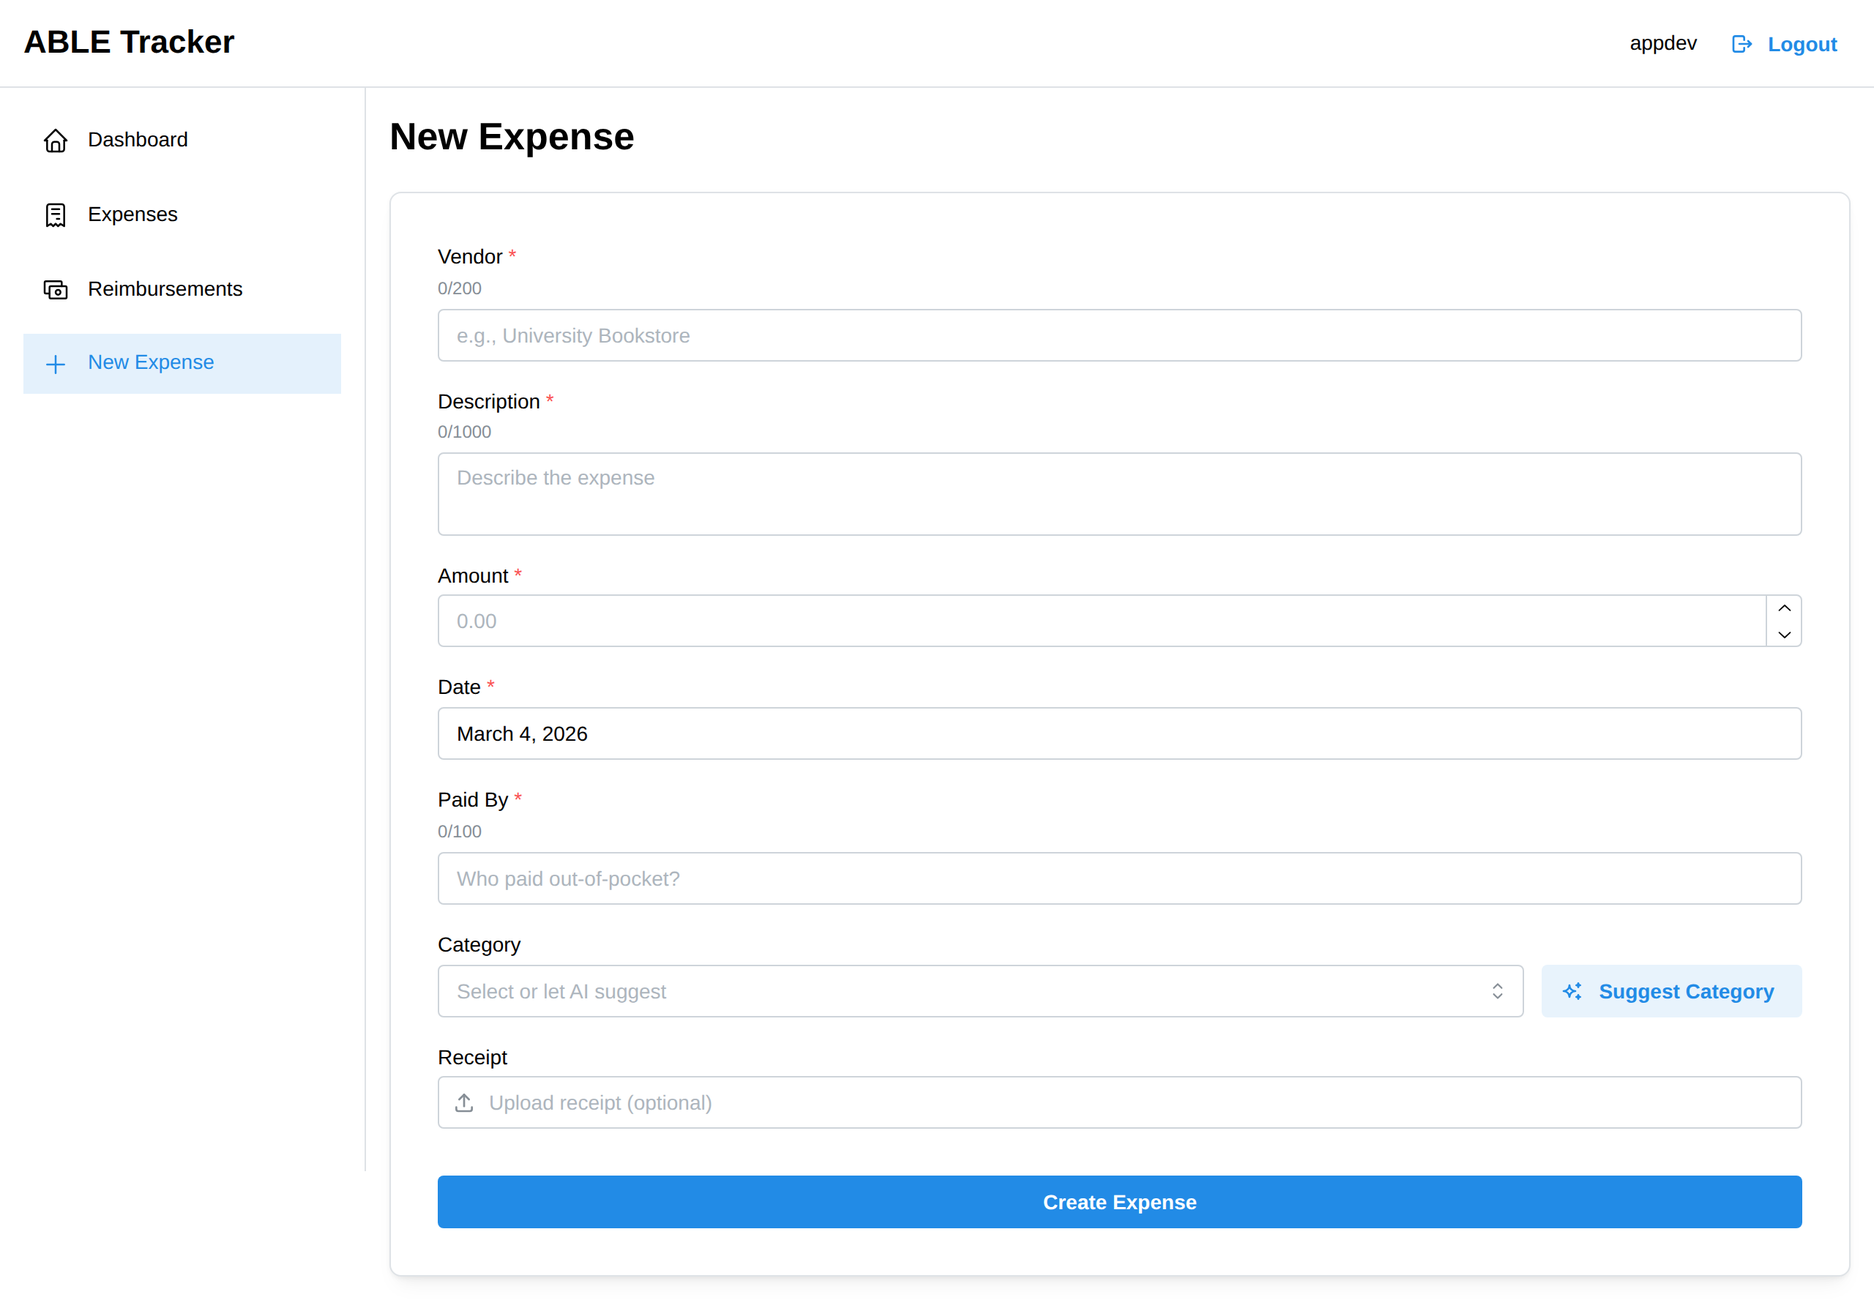
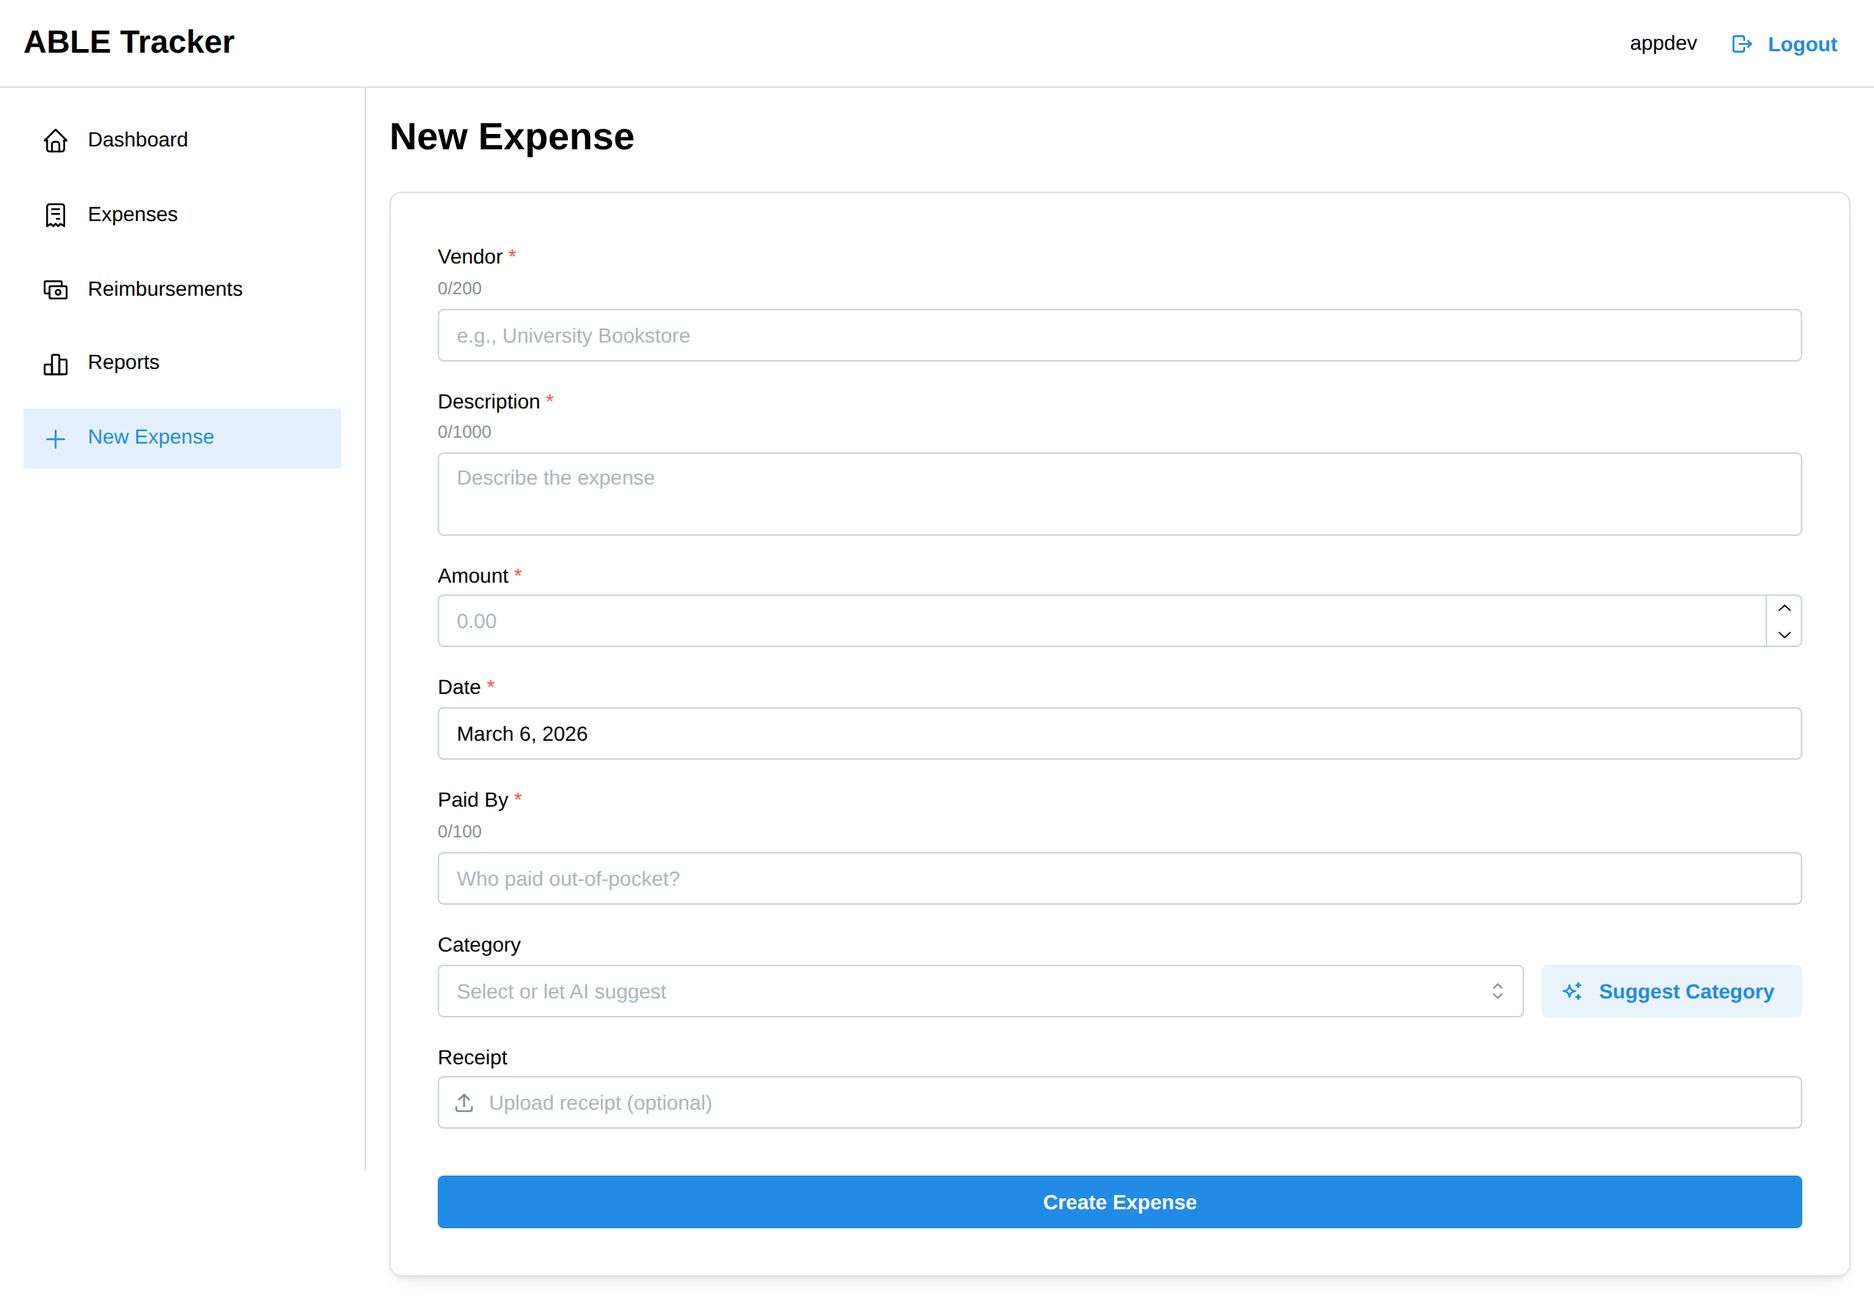
docs: Sprint 5 UAT report, demo script updates, and screenshots
- Update product-demo.md for all Sprint 5 features: Reports page,
  Reimbursement Status filter, Mark as Reimbursed, API throttling,
  upload size limits
- Add new screenshots: 12-reports.png, 13-expense-filter.png
- Refresh all existing screenshots from live environment
- Update capture-screenshots.mjs with Reports and filter captures
- Add Sprint 5 UAT report with full test results and findings

Changed region(s): [[0.0, 0.2477, 0.1875, 0.3716]]

diff --git a/docs/demos/product-demo.md b/docs/demos/product-demo.md
@@ -1,6 +1,6 @@
 # ABLE Tracker -- Product Demo
 
-> Last updated: Sprint 4, 2026-03-04 (post-deployment)
+> Last updated: Sprint 5, 2026-03-06 (post-deployment)
 
 ## What is ABLE Tracker?
 
@@ -126,11 +126,12 @@ The app uses a sidebar navigation layout with a fixed header. On mobile, the sid
 - **Dashboard** (home icon) -- `/`
 - **Expenses** (receipt icon) -- `/expenses`
 - **Reimbursements** (cash icon) -- `/reimbursements`
+- **Reports** (chart icon) -- `/reports`
 - **New Expense** (plus icon) -- `/expenses/new`
 
 **Steps:**
 
-1. From any page, observe the sidebar on the left with four navigation links.
+1. From any page, observe the sidebar on the left with five navigation links.
 2. Click each link to navigate between pages.
 3. On the header, observe your display name and the Logout button.
 4. Click **Logout** to end your session and return to the login page.
@@ -144,7 +145,7 @@ The app uses a sidebar navigation layout with a fixed header. On mobile, the sid
 3. Tap the hamburger to open/close the sidebar as an overlay.
 
 **Verification:**
-- [ ] Four navigation links are visible: Dashboard, Expenses, Reimbursements, New Expense
+- [ ] Five navigation links are visible: Dashboard, Expenses, Reimbursements, Reports, New Expense
 - [ ] Active page is visually highlighted in the sidebar
 - [ ] Clicking a link navigates to the correct page
 - [ ] Display name appears in the header
@@ -281,21 +282,27 @@ The Expense List page shows all recorded expenses in a table format. It includes
 
 **Filters:**
 
-The filter bar at the top of the table provides three filter controls:
+![Expense list with reimbursement filter](screenshots/13-expense-filter.png)
+
+The filter bar at the top of the table provides four filter controls:
 
 1. **Category** -- Dropdown to filter by any of the 11 ABLE categories (or "All categories")
-2. **From date** -- Date picker for the start of a date range
-3. **To date** -- Date picker for the end of a date range
-4. **Clear filters** -- Button to reset all filters
+2. **Reimbursement Status** -- Dropdown to filter by "Unreimbursed", "Reimbursed", or "All" (default)
+3. **From date** -- Date picker for the start of a date range
+4. **To date** -- Date picker for the end of a date range
+5. **Clear filters** -- Button to reset all filters
+
+The Reimbursement Status filter sends the `reimbursed` query parameter to the backend API, so filtering happens server-side for accurate results.
 
 **Steps:**
 
 1. Navigate to **Expenses** from the sidebar.
 2. If expenses exist, they appear in a striped, hover-highlighted table.
 3. Use the **Category** dropdown to filter by a specific ABLE category.
-4. Use the **From date** and **To date** pickers to filter by date range.
-5. Click **"Clear filters"** to reset all filters.
-6. Click **"Add Expense"** (top right) to create a new expense.
+4. Use the **Reimbursement Status** dropdown to show only unreimbursed or reimbursed expenses.
+5. Use the **From date** and **To date** pickers to filter by date range.
+6. Click **"Clear filters"** to reset all filters.
+7. Click **"Add Expense"** (top right) to create a new expense.
 
 **Empty state:**
 
@@ -309,8 +316,10 @@ If no expenses have been recorded yet, the page shows a friendly empty state wit
 - [ ] Date is formatted as "MMM D, YYYY"
 - [ ] Reimbursed column shows colored badges (green for Yes, gray for No)
 - [ ] Category filter dropdown includes all 11 ABLE categories
+- [ ] Reimbursement Status filter shows "Unreimbursed", "Reimbursed", or "All"
+- [ ] Reimbursement Status filter queries the backend (server-side filtering)
 - [ ] Date range filter restricts displayed expenses
-- [ ] "Clear filters" resets all filter controls
+- [ ] "Clear filters" resets all filter controls including Reimbursement Status
 - [ ] Empty state shows a helpful message with a link to add an expense
 - [ ] "Add Expense" button in the header links to the form
 - [ ] Table rows are clickable (cursor changes to pointer)
@@ -321,13 +330,13 @@ If no expenses have been recorded yet, the page shows a friendly empty state wit
 
 ![Reimbursements page](screenshots/11-reimbursements.png)
 
-The Reimbursements page provides a dedicated view of who is owed money and how much. It aggregates all unreimbursed expenses by payer and shows a summary with recent expense details.
+The Reimbursements page provides a dedicated view of who is owed money and how much. It aggregates all unreimbursed expenses by payer and lets users mark expenses as reimbursed directly from the table.
 
 **Page sections:**
 
 1. **Total Unreimbursed** -- A prominent banner showing the aggregate unreimbursed amount across all payers
 2. **Per-person cards** -- Each card shows the payer's name, number of unreimbursed expenses, and total amount owed (displayed in red)
-3. **Recent Expenses table** -- The 5 most recent expenses with date, vendor, paid by, amount, and reimbursed status badge
+3. **Unreimbursed Expenses table** -- All unreimbursed expenses with date, vendor, paid by, amount, and a "Mark Reimbursed" action button
 4. **Add Expense button** -- Quick action to create a new expense from this page
 
 **Steps:**
@@ -335,13 +344,17 @@ The Reimbursements page provides a dedicated view of who is owed money and how m
 1. Navigate to **Reimbursements** from the sidebar.
 2. Observe the **Total Unreimbursed** amount at the top.
 3. Review the per-person breakdown cards showing who is owed what.
-4. Scroll down to see the **Recent Expenses** table with reimbursement status badges.
+4. Scroll down to see the **Unreimbursed Expenses** table.
+5. Click **"Mark Reimbursed"** on any expense to mark it as reimbursed.
+6. A confirmation dialog appears: "Mark [vendor] expense of [amount] paid by [name] as reimbursed?"
+7. On confirmation, the expense is marked via `PUT /expenses/{id}/reimburse` and the page refreshes.
 
 **What happens:**
 - All expenses are fetched from the API via `/expenses`.
 - The page filters out reimbursed expenses and aggregates the remaining by `paidBy` field.
 - Per-person cards are sorted by total owed (highest first).
-- The Recent Expenses table shows the 5 most recent expenses regardless of reimbursement status.
+- The Unreimbursed Expenses table shows only expenses where `reimbursed` is false (no truncation — all records shown).
+- The "Mark Reimbursed" button shows a loading spinner while the API call is in progress, and other buttons are disabled to prevent concurrent actions.
 
 **Empty states:**
 - If no expenses exist, a friendly message appears: "No expenses yet. Add your first expense to start tracking reimbursements."
@@ -351,15 +364,65 @@ The Reimbursements page provides a dedicated view of who is owed money and how m
 - [ ] Total Unreimbursed amount is displayed prominently
 - [ ] Per-person cards show payer name, expense count, and amount owed in red
 - [ ] Amount owed excludes reimbursed expenses
-- [ ] Recent Expenses table shows date, vendor, paid by, amount, and reimbursed badge
-- [ ] Reimbursed badge is green for "Yes" and gray for "No"
+- [ ] Unreimbursed Expenses table shows only unreimbursed expenses (no reimbursed rows)
+- [ ] Table shows all unreimbursed expenses without truncation
+- [ ] "Mark Reimbursed" button appears on each row with a green checkmark icon
+- [ ] Clicking "Mark Reimbursed" shows a confirmation dialog before proceeding
+- [ ] After confirming, the expense disappears from the table and totals update
+- [ ] Button shows loading state during API call; other buttons are disabled
+- [ ] Error alert appears if the reimbursement API call fails
 - [ ] "Add Expense" button links to `/expenses/new`
 - [ ] Empty state shows when no expenses exist
 - [ ] "All caught up!" state shows when all expenses are reimbursed
 
 ---
 
-### 9. Logout
+### 9. Reports
+
+![Reports page](screenshots/12-reports.png)
+
+The Reports page provides a high-level financial overview of all expenses with summary statistics and a category breakdown. It supports date range filtering to analyze expenses over specific periods.
+
+**Page sections:**
+
+1. **Date range filter** -- From/To date pickers with a "Clear filters" button
+2. **Summary cards** -- Four cards showing key metrics:
+   - **Total Expenses** -- Count of all expenses in the filtered range
+   - **Total Amount** -- Sum of all expense amounts
+   - **Total Reimbursed** -- Sum of amounts that have been reimbursed
+   - **Total Unreimbursed** -- Sum of amounts still awaiting reimbursement
+3. **By Category table** -- Breakdown of expenses by ABLE category, sorted by total amount (highest first), showing category name, count, and total
+
+**Steps:**
+
+1. Navigate to **Reports** from the sidebar.
+2. View the four summary cards for an instant financial overview.
+3. Scroll down to the **By Category** table to see spending distribution across ABLE categories.
+4. Use the **From date** and **To date** pickers to narrow the report to a specific time period.
+5. Click **"Clear filters"** to reset and view all expenses.
+
+**What happens:**
+- All expenses are fetched from the API via `/expenses` (with optional date filters).
+- Summary statistics are aggregated client-side from the full expense list.
+- The category breakdown groups expenses by their ABLE category and sorts by total amount descending.
+- Changing date filters triggers a new API call and recalculates all summaries.
+
+**Empty state:**
+- If no expenses exist (or none match the date filter), a friendly message appears: "No expenses yet. Add your first expense to start viewing reports."
+
+**Verification:**
+- [ ] Reports page displays four summary cards with correct totals
+- [ ] Total Amount = Total Reimbursed + Total Unreimbursed
+- [ ] By Category table shows all categories with expenses, sorted by total descending
+- [ ] Category count and total are accurate
+- [ ] Date range filter narrows results and updates all summaries
+- [ ] "Clear filters" resets date range and shows all expenses
+- [ ] Empty state shows when no expenses exist or match filters
+- [ ] All amounts are formatted as currency (e.g., "$187.10")
+
+---
+
+### 10. Logout
 
 ![Logout](screenshots/10-logout.png)
 
@@ -397,7 +460,7 @@ ABLE Tracker runs on a fully automated AWS infrastructure, defined entirely in C
 | Method | Path | Purpose |
 |--------|------|---------|
 | POST   | `/expenses` | Create a new expense |
-| GET    | `/expenses` | List expenses (with optional category/date filters) |
+| GET    | `/expenses` | List expenses (with optional category/date/reimbursed filters) |
 | GET    | `/expenses/{id}` | Get a single expense by ID |
 | POST   | `/expenses/categorize` | AI categorization of an expense |
 | PUT    | `/expenses/{id}/reimburse` | Mark an expense as reimbursed |
@@ -416,6 +479,8 @@ All API endpoints require a valid Cognito JWT in the `Authorization: Bearer <tok
 - **Generic error messages** -- Auth failures return generic messages; no implementation details leaked
 - **Secret scanning** -- Pre-commit hook and CI pipeline scan for leaked secrets/credentials
 - **No PII to AI** -- Only vendor name and description are sent to the Claude API; no account numbers, SSNs, or personal data
+- **API throttling** -- API Gateway enforces rate limits: 100 requests/sec (200 burst) globally, with tighter limits on the AI categorization endpoint (10 requests/sec, 20 burst)
+- **Upload size limits** -- Presigned upload URLs enforce a 10 MB maximum file size, validated both at the handler level and embedded in the presigned URL signature
 - **Post-deploy smoke tests** -- Automated CI pipeline validates all API endpoints after every deployment
 
 ---
@@ -429,10 +494,10 @@ The following features are planned but not yet implemented:
 - **Why**: Receipts are essential for tax documentation of ABLE expenses
 - **Status**: Backend presigned URL handler exists; file input is on the form; upload wiring not yet complete
 
-### Reporting Page (Issues #35, #64)
-- **What**: Reports section with expense summaries by category, date range, and reimbursement status
-- **Why**: ABLE account holders need reports for tax documentation and financial planning
-- **Status**: Navigation link planned; page is placeholder
+### Bulk Reimbursement Workflow (Issue #109)
+- **What**: Select multiple unreimbursed expenses and reimburse them together with a running total
+- **Why**: In practice, one check covers multiple expenses — the per-expense button doesn't match the real workflow
+- **Status**: Issue created; exploring checkbox multi-select, per-person bulk action, or hybrid approach
 
 ### Export to CSV/PDF (Issue #24)
 - **What**: Export filtered expenses for tax preparation
@@ -484,7 +549,7 @@ The app is responsive (sidebar collapses on narrow screens), but has not been op
 1. Open your CloudFront URL in your browser (see `deployment.env.example` for how to find it).
 2. Log in with your credentials.
 3. Explore the Dashboard, navigate between pages, and try the Add Expense form.
-4. Test the full flow: create expenses, use AI categorization, view the expense list, and check the Reimbursements page.
+4. Test the full flow: create expenses, use AI categorization, view the expense list, check the Reimbursements page, and review Reports.
 
 ### For Developers
 

diff --git a/docs/demos/sprint-5-uat-report.md b/docs/demos/sprint-5-uat-report.md
@@ -1,0 +1,105 @@
+# Sprint 5 UAT Report
+
+> **Date:** 2026-03-06
+> **Tester:** UAT Tester (automated + manual verification)
+> **Environment:** Production (CloudFront + API Gateway)
+
+## Sprint 5 Scope
+
+| PR | Issue | Feature | Status |
+|----|-------|---------|--------|
+| #101 | #100 | Remove 5-record limit from Reimbursements table | Merged |
+| #102 | #99 | Reimbursement status filter on Expenses page | Merged |
+| #103 | #46 | S3 upload 10 MB size limit | Merged |
+| #104 | #65 | Mark as Reimbursed UI action | Merged |
+| #105 | #64 | Reports page with summary cards and category breakdown | Merged |
+| #107 | #47 | API Gateway throttling | Merged |
+| #108 | #106 | Backend `reimbursed` query parameter support | Merged |
+
+## Test Results
+
+### Automated Tests
+
+| Suite | Tests | Result |
+|-------|-------|--------|
+| Web (Vitest + RTL) | 244 | All passing |
+| API (Vitest) | 209 | All passing |
+| **Total** | **453** | **All passing** |
+
+### Smoke Tests (Live API)
+
+| Test | Result | Notes |
+|------|--------|-------|
+| Cognito authentication | PASS | |
+| Unauthenticated GET /expenses returns 401 | PASS | |
+| GET /expenses returns 200 | PASS | |
+| POST /expenses returns 201 | PASS | |
+| GET /expenses/{id} returns 200 | PASS | |
+| GET /expenses/{id} returns 404 for missing | PASS | |
+| POST /expenses/categorize returns 200 | PASS | AI key not configured — null result accepted |
+| PUT /expenses/{id}/reimburse returns 200 | PASS | |
+| GET /dashboard/reimbursements responds | PASS | Stub — returns 501 (expected) |
+| POST /uploads/request-url returns 200 | **FAIL** | Sprint 5 added `fileSize` validation (#46); smoke test not updated |
+| CORS headers present | PASS | |
+| **Total** | **10/11** | |
+
+### Screenshot Verification (Live App)
+
+| Screenshot | Feature | Verified |
+|------------|---------|----------|
+| 01-login-page | Login page renders | Yes |
+| 02-auth-redirect | Auth guard redirects to login | Yes |
+| 03-dashboard | Dashboard with quick actions | Yes (note: dashboard data shows "Failed to load" due to 501 stub) |
+| 04-navigation | 5 sidebar links including Reports | Yes |
+| 05-expense-form | Add Expense form with all fields | Yes |
+| 06-ai-categorization | AI suggest category flow | Yes |
+| 07-expense-list | Expenses table with Reimbursement Status filter | Yes |
+| 09-mobile-nav | Mobile hamburger menu | Yes |
+| 11-reimbursements | Reimbursements with Mark Reimbursed buttons, no truncation | Yes |
+| 12-reports | Reports page with 4 summary cards + category breakdown | Yes |
+| 13-expense-filter | Expenses page showing filter bar | Yes |
+| 10-logout | Logout button in header | Yes |
+
+## UAT Findings
+
+### Blockers
+
+None.
+
+### Issues Found
+
+| # | Severity | Description | Action |
+|---|----------|-------------|--------|
+| 1 | Medium | Smoke test for `POST /uploads/request-url` fails because Sprint 5 added `fileSize` validation (#46) but the smoke test wasn't updated to send `fileSize` in the request body | Create issue to update smoke test |
+| 2 | Low | Deploy Infrastructure workflow doesn't trigger on `api/` changes — PR #108 backend changes were not auto-deployed | Issue #110 created |
+| 3 | Low | Dashboard shows "Failed to load dashboard data" because `/dashboard/reimbursements` returns 501 (stub) | Known limitation — dashboard endpoint not yet implemented |
+| 4 | Info | Expense list filter screenshot (13) shows all reimbursed expenses because demo data is mostly smoke test data marked reimbursed | Cosmetic — filter UI is correct and functional |
+
+### Sprint 5 Feature Acceptance
+
+| Feature | Acceptance Criteria | Result |
+|---------|-------------------|--------|
+| **Remove table truncation (#100)** | All unreimbursed expenses shown without `.slice(0, 5)` | **PASS** — Screenshot 11 shows all 5 unreimbursed expenses |
+| **Reimbursement status filter (#99)** | Dropdown with Unreimbursed/Reimbursed/All options on Expenses page | **PASS** — Screenshot 07 shows filter; backend query param confirmed (#108) |
+| **S3 upload size limit (#46)** | 10 MB max enforced at handler + presigned URL level | **PASS** — Unit tests pass; smoke test needs update for new validation |
+| **Mark as Reimbursed (#65)** | Button on each unreimbursed row, confirmation dialog, loading state | **PASS** — Screenshot 11 shows green "Mark Reimbursed" buttons with checkmark icons |
+| **Reports page (#64)** | Summary cards (count, total, reimbursed, unreimbursed) + category breakdown table + date filter | **PASS** — Screenshot 12 shows all 4 cards and By Category table |
+| **API throttling (#47)** | Global rate limit 100/200, categorize endpoint 10/20 | **PASS** — CDK stack tests pass; infra deployed successfully |
+| **Backend reimbursed filter (#106)** | `GET /expenses?reimbursed=true\|false` query param with DynamoDB FilterExpression | **PASS** — Unit tests pass; awaiting manual deploy trigger |
+
+## Demo Script Updates
+
+The product demo script (`docs/demos/product-demo.md`) has been updated for Sprint 5:
+
+- Navigation section updated to 5 links (added Reports)
+- Expense List section documents new Reimbursement Status filter with server-side filtering
+- Reimbursements section rewritten: Mark Reimbursed buttons, confirmation dialog, no truncation, unreimbursed-only table
+- New Section 9: Reports page with summary cards, category breakdown, date filtering
+- Security section updated with API throttling and upload size limits
+- Coming Soon: removed Reports (now implemented), added Bulk Reimbursement Workflow (#109)
+- API endpoints table updated with reimbursed filter note
+- New screenshots captured: 12-reports.png, 13-expense-filter.png
+
+## Recommendation
+
+**Sprint 5 is ready for release.** All 7 features pass acceptance criteria. The two non-blocking issues (smoke test update, deploy trigger fix) should be addressed in Sprint 6.
